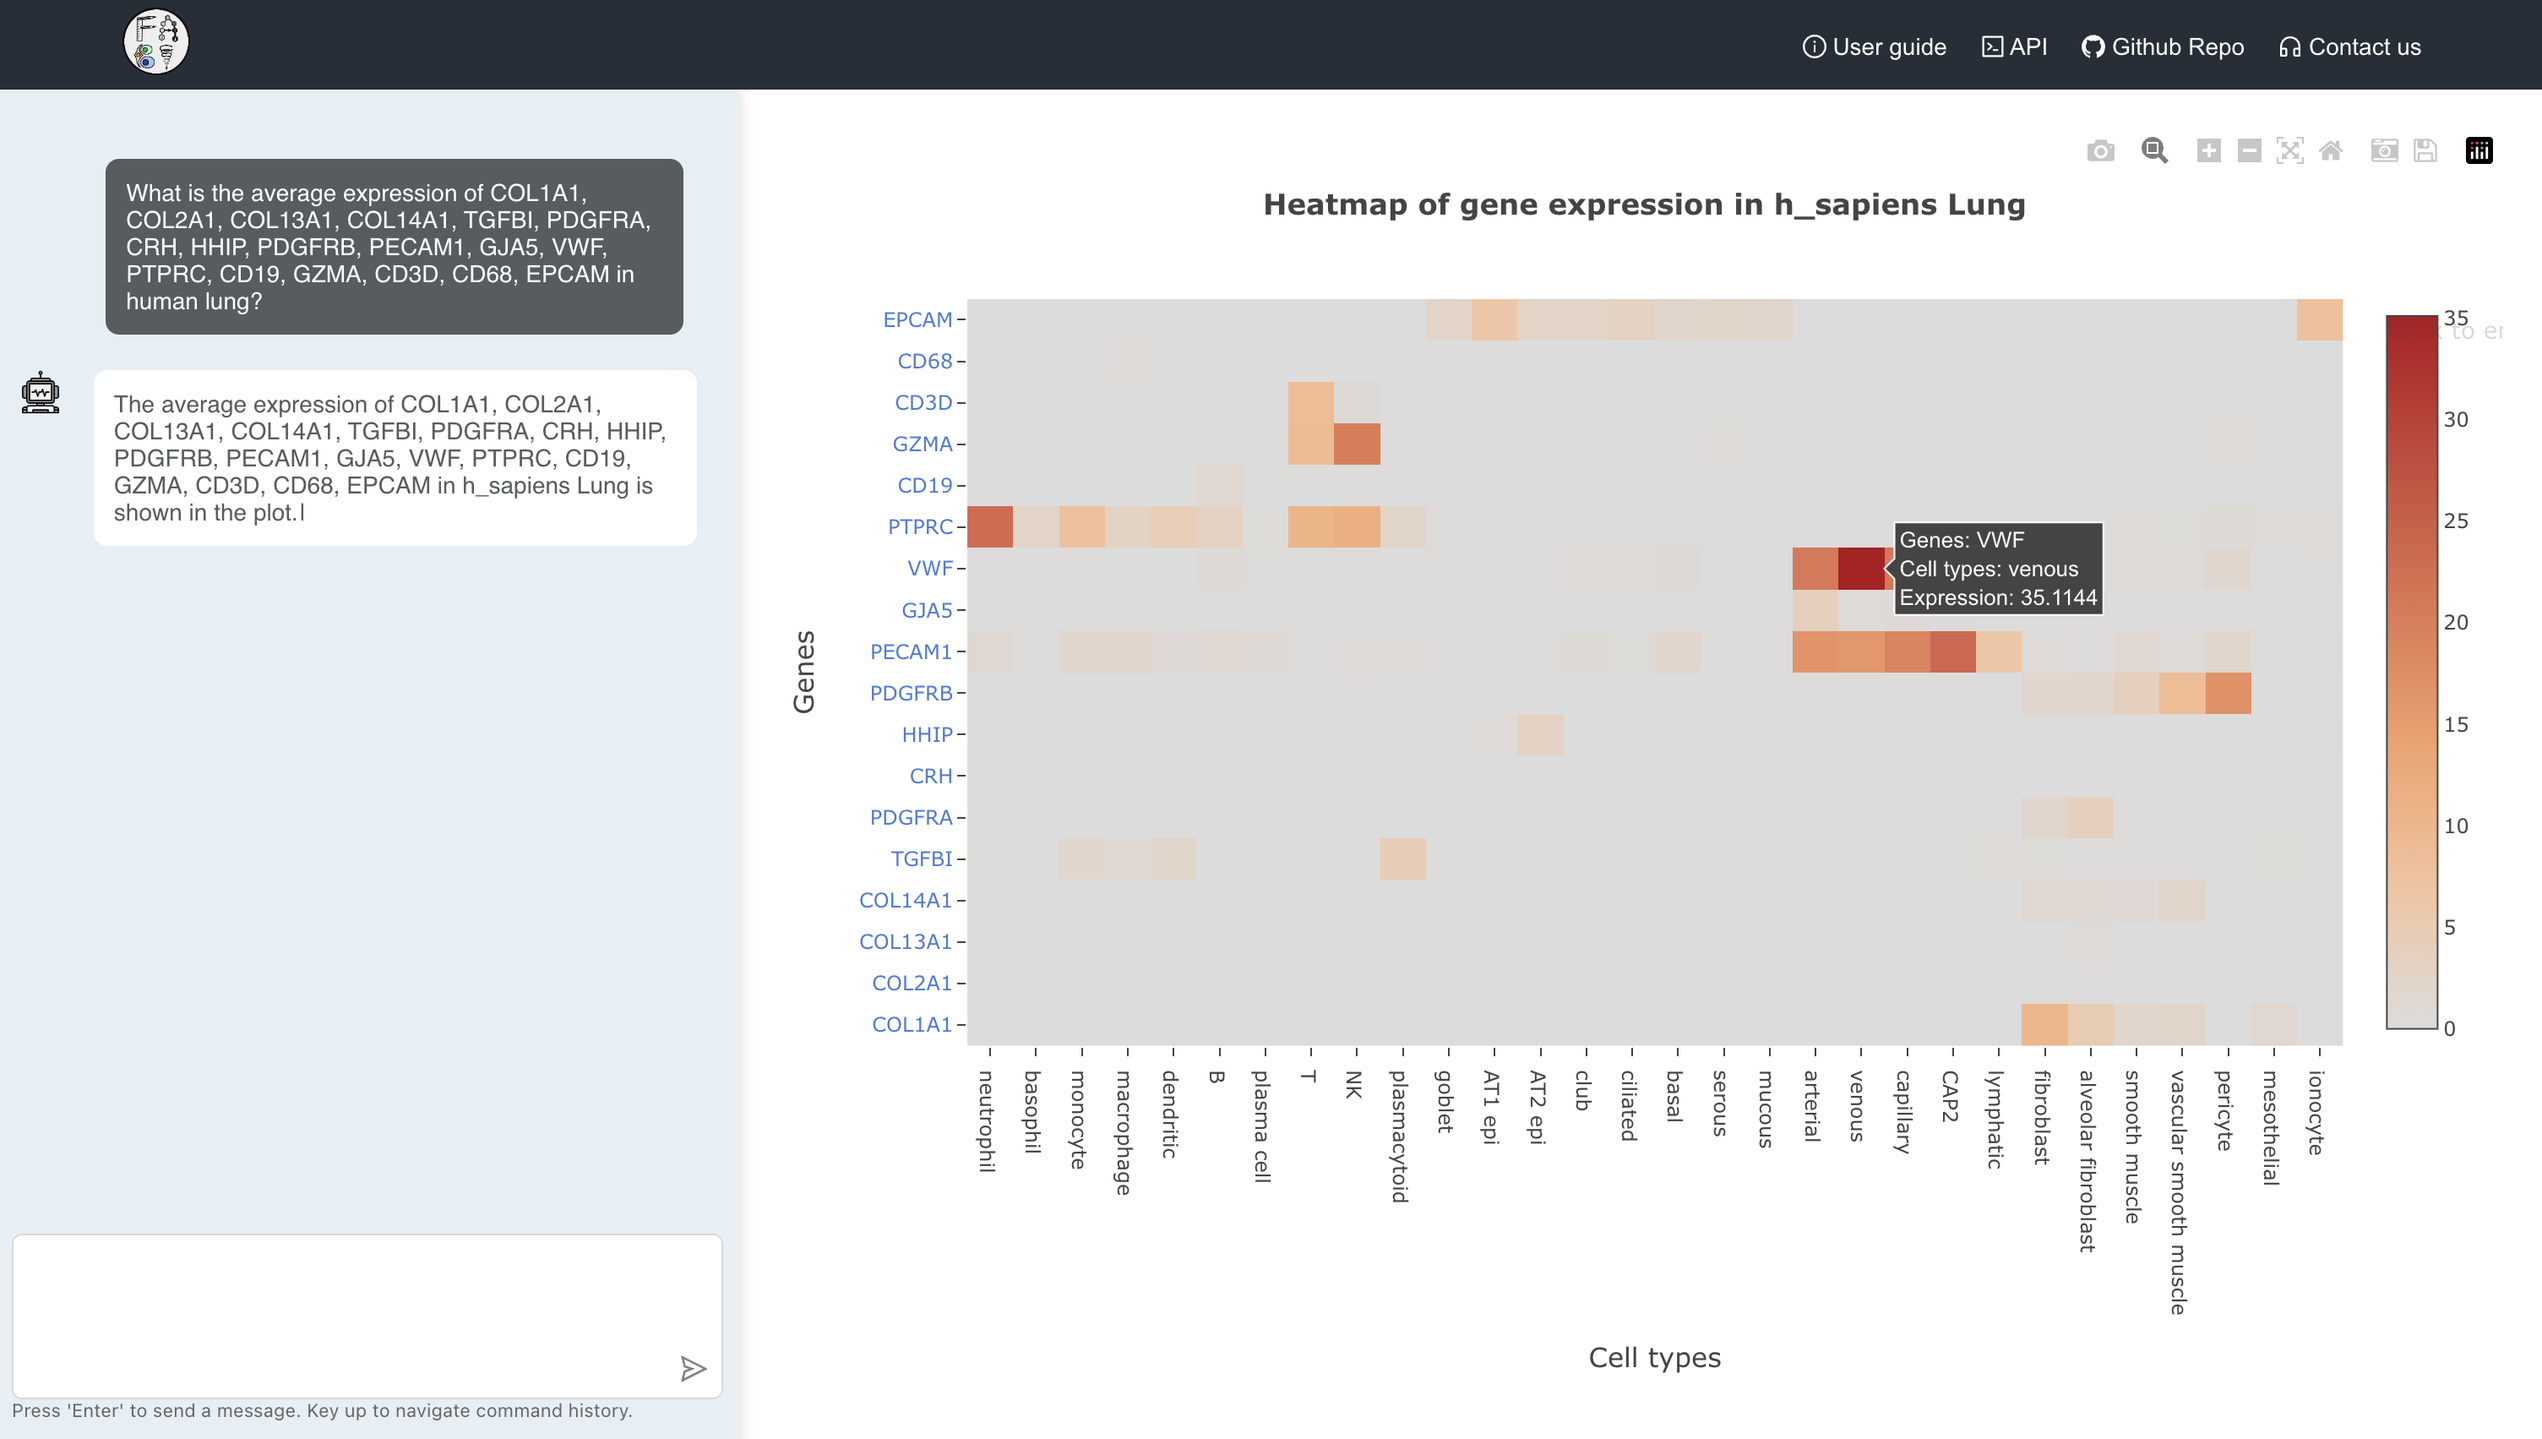
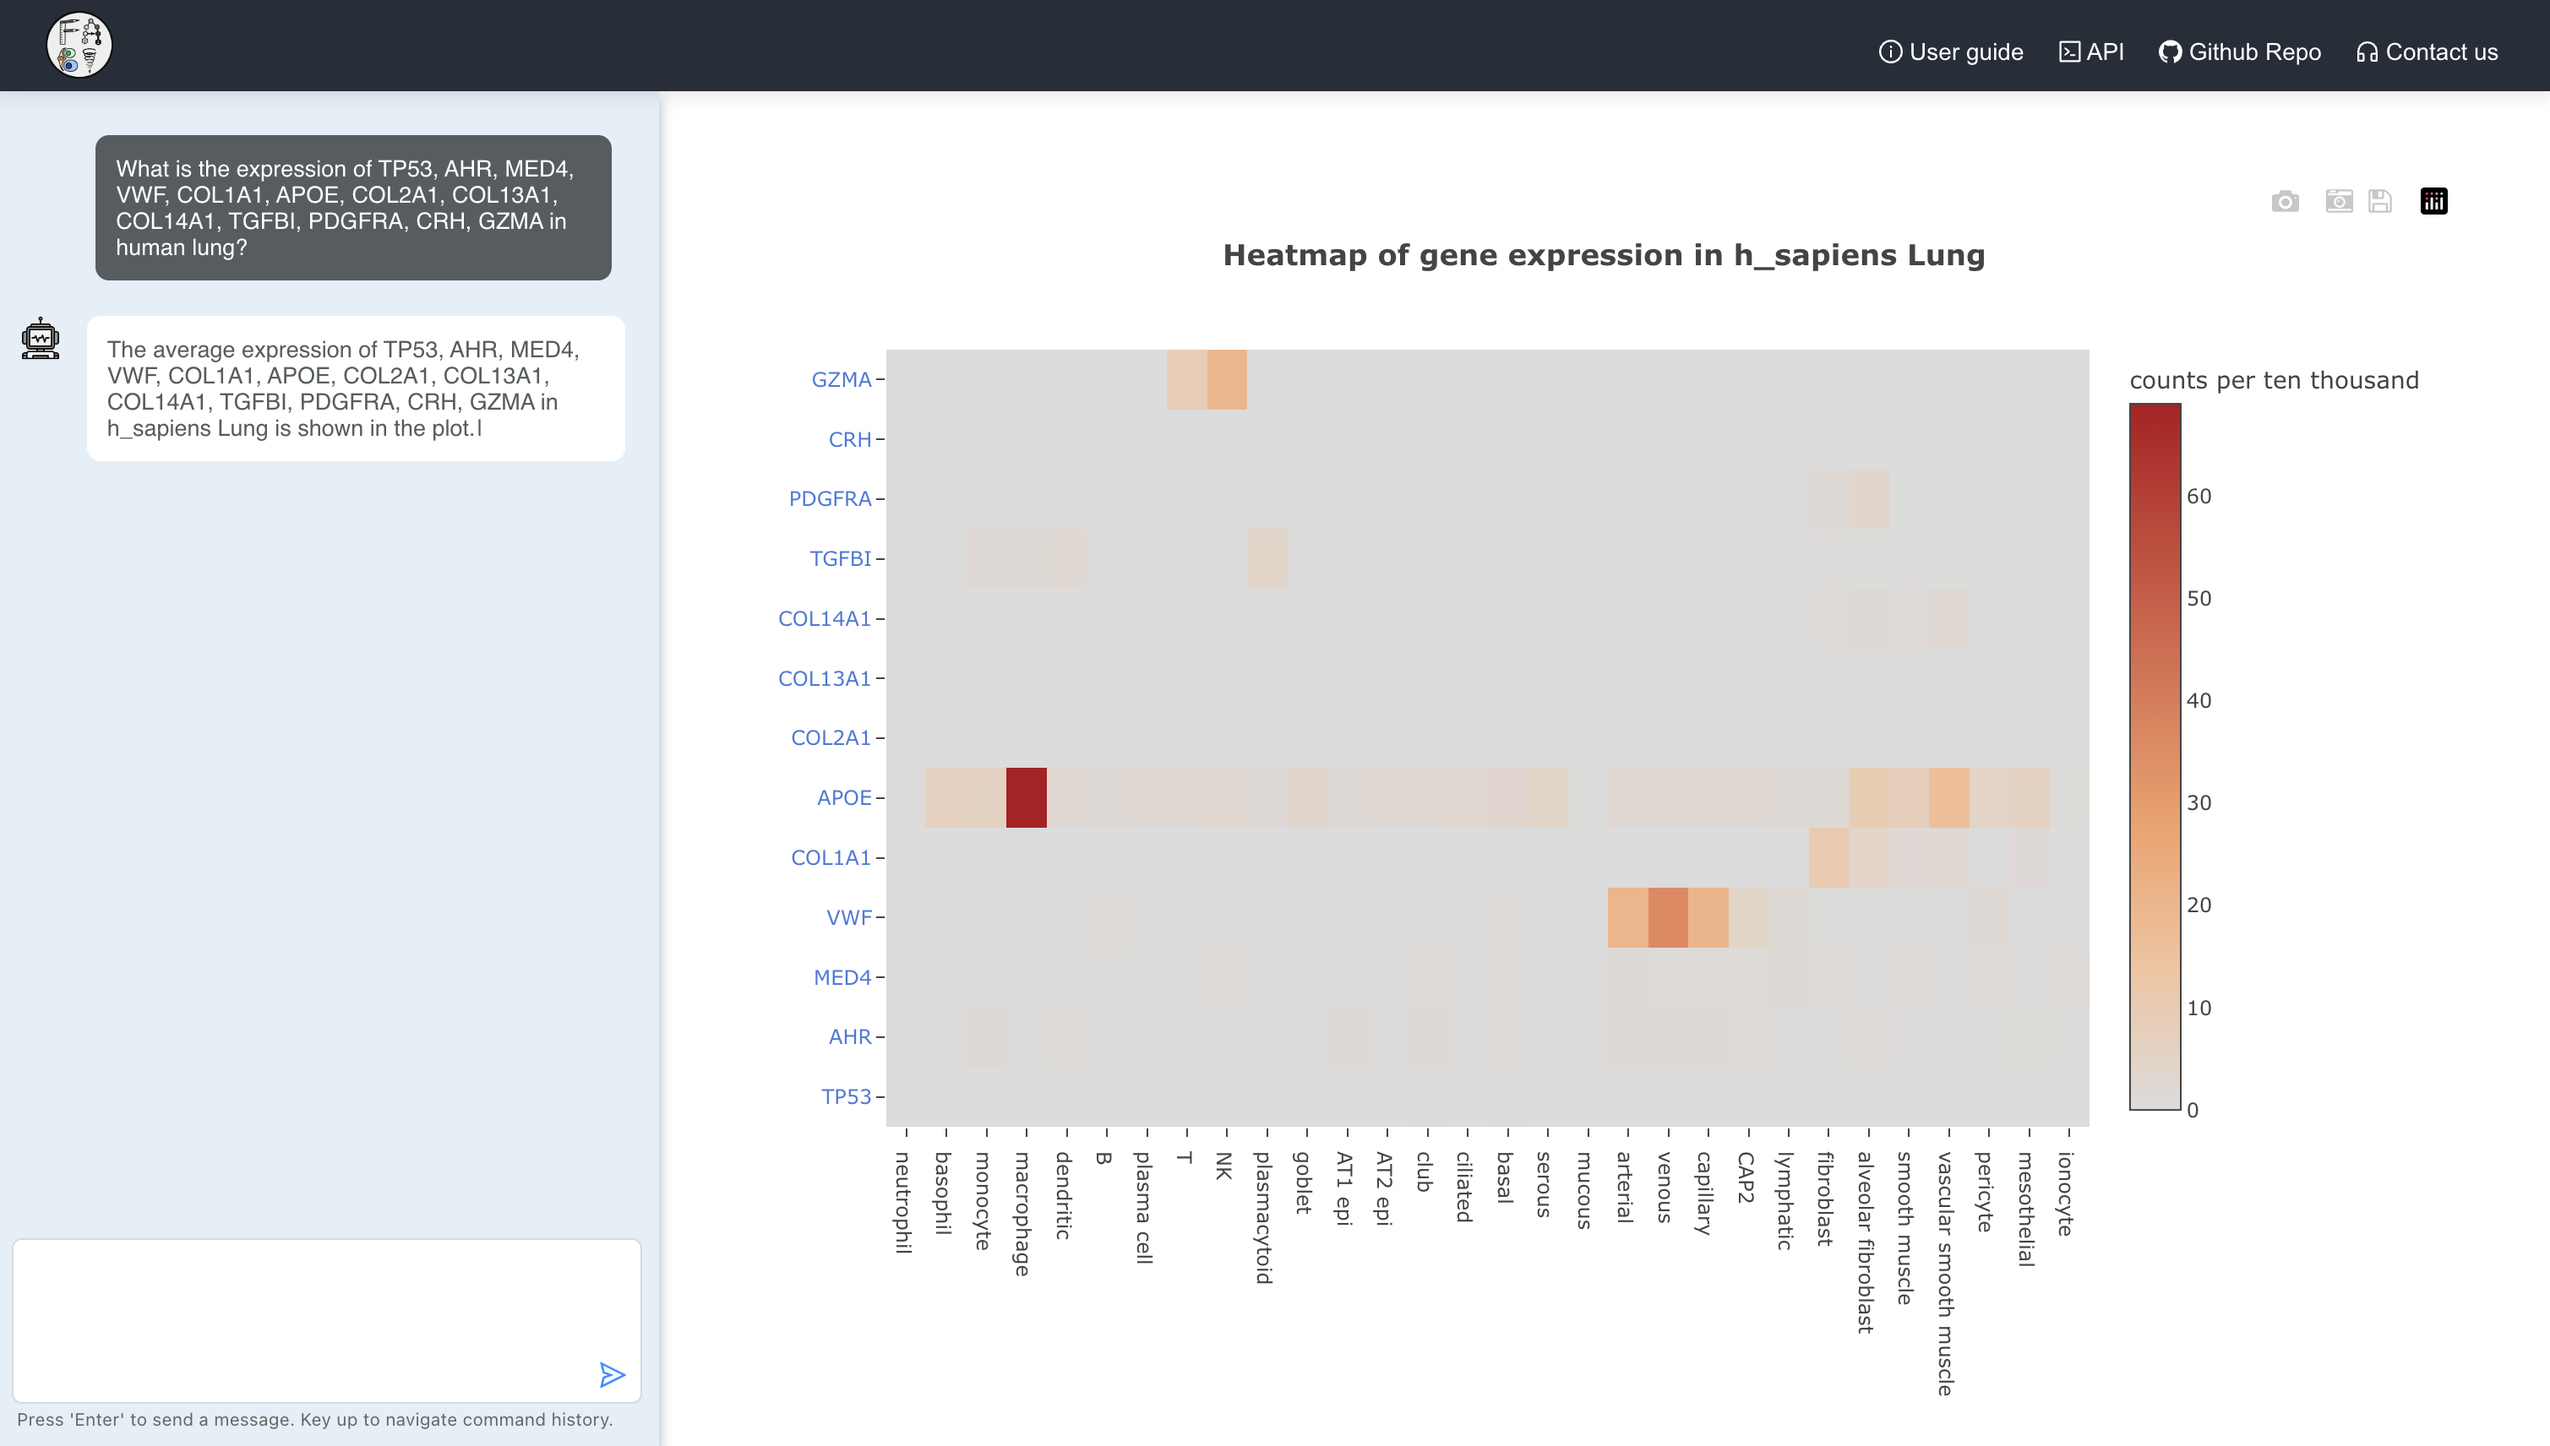
more update on userGuide.js

diff --git a/src/pages/userGuide.js b/src/pages/userGuide.js
@@ -16,7 +16,7 @@ const UserGuide = () => {
 
   const components = {
     img({node, ...props}) {
-      return <img {...props} alt="images" style={{ width: '100%', display: 'block', marginLeft: 'auto', marginRight: 'auto' }} />
+      return <img {...props} alt="images" style={{ width: '100%', display: 'block', marginLeft: 'auto', marginRight: 'auto', border: '0.5px solid #4a4a4a' }} />
     }
   }
   
@@ -27,7 +27,7 @@ const markdownStyle = {
   lineHeight: '1.6',
   maxWidth: '800px',
   margin: '0 auto',
-  padding: '20px'
+  padding: '20px',
 }
 
 return (

diff --git a/public/userGuide.md b/public/userGuide.md
@@ -55,9 +55,9 @@ This query provides information about the different cell types present in each o
 
 #### Gene Expression Profile
 
-Query: "What is the expression of Tp53,Mettl14,Apoe,Cd8a,Cd19,Mettl14,Hdac8,Mtor,Hnrnpl,Lancl2 in the mouse lung?"
+Query: "What is the expression of TP53, AHR, MED4, VWF, COL1A1, APOE, COL2A1, COL13A1, COL14A1, TGFBI, PDGFRA, CRH, GZMA in human lung?"
 
-This query retrieves the average expression of the a list of specified genes in the mouse lung.
+This query retrieves the average expression of the a list of specified genes in the human lung.
 
 ![geneExpression](./demo/average-expression.png)
 
@@ -69,16 +69,21 @@ This query provides the fraction of cells that express each of the specified gen
 
 ![fraction](./demo/fraction-expression.png)
 
-### Highest Expressor
+#### Highest Expressor
 Query: what cell type is the highest expressor of Apoe in mouse?
 
 ![highestExpressor](./demo/highest-expressor.png)
 
-#### marker genes
+#### Marker genes
 
-Query: "Show 10 markers of fibroblast in the mouse lung"
+Query: "Show 10 markers of fibroblast in the mouse lung."
 
 This query identifies 10 marker genes for the fibroblast cell type in the mouse lung.
+
 ![markerGene](./demo//marker-genes.png)
 
+#### Similar genes
 
+Query: "Show 10 genes similar to Col1a1 in mouse lung."
+
+![simiarGenes](./demo/similar-genes.png)
